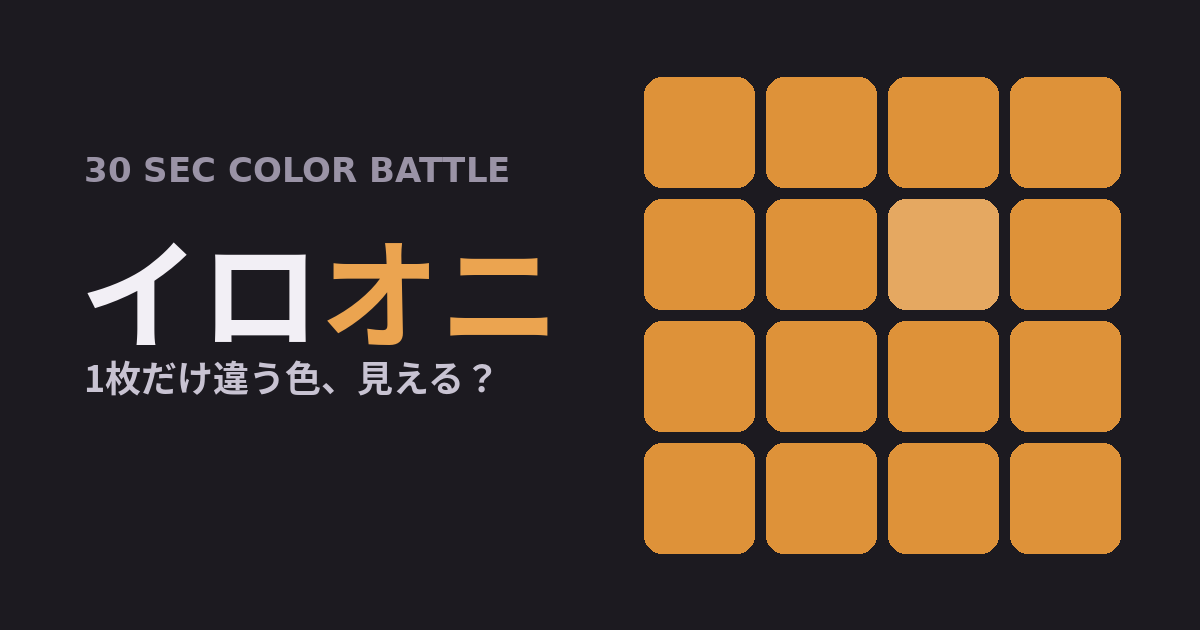
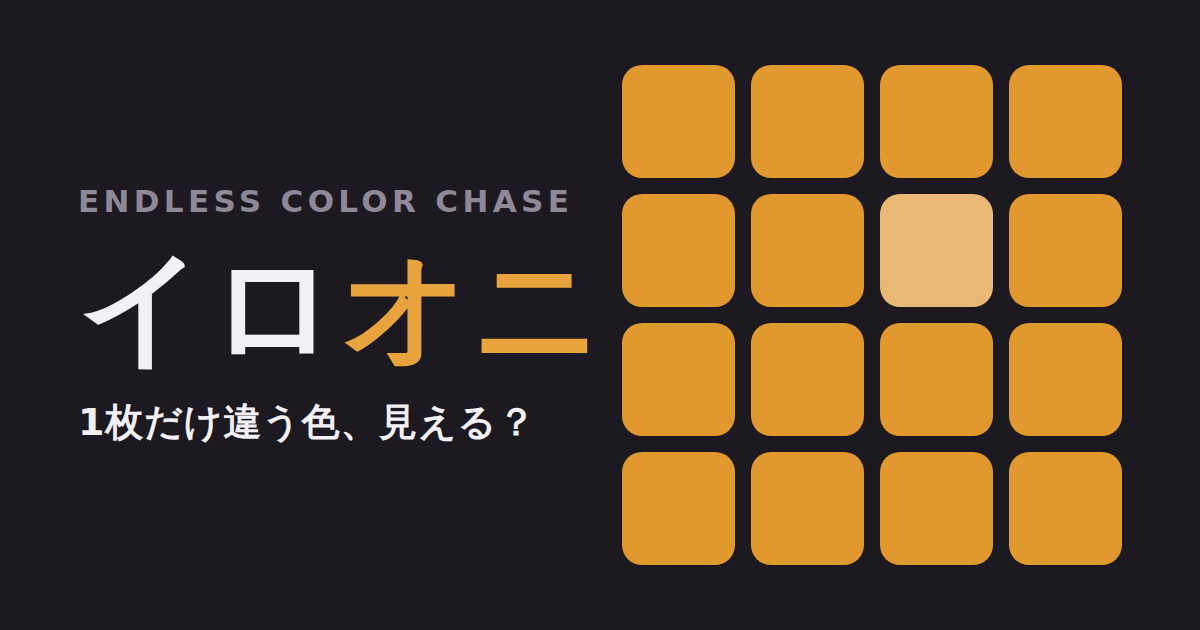
エンドレスモード化：迫る鬼と時間回復、世界ランキングの同名集約 (#7)
正解で時間が回復する無限モードに変更し、残り時間に応じて盤面の外側から
闇が迫る演出を追加。闇は盤面にかからないようJSで半径を実測して制御する。
偏差値を対数写像に変更し、生存時間の表示と文言・OGPの更新を含む。
世界ランキングは同名を最高スコアの1件に集約。

Changed region(s): [[0.0617, 0.0905, 0.9558, 0.9048], [0.0617, 0.2413, 0.4933, 0.3619], [0.925, 0.1206, 0.9558, 0.1508]]

diff --git a/index.html b/index.html
@@ -3,17 +3,17 @@
 <head>
 <meta charset="UTF-8">
 <meta name="viewport" content="width=device-width, initial-scale=1.0, maximum-scale=1.0, user-scalable=no">
-<title>イロオニ — 30秒色感バトル</title>
-<meta name="description" content="30秒で色感偏差値を測定。1枚だけ違う色をタップし続けろ。あなたの色感、何レベル？">
+<title>イロオニ — エンドレス色感バトル</title>
+<meta name="description" content="1枚だけ違う色をタップし続けろ。迫るオニに飲まれるまで終わらない、エンドレス色感バトル。">
 
 <!-- OGP -->
-<meta property="og:title" content="イロオニ — 30秒色感バトル">
-<meta property="og:description" content="1枚だけ違う色をタップし続けろ。30秒であなたの色感偏差値を測定。">
+<meta property="og:title" content="イロオニ — エンドレス色感バトル">
+<meta property="og:description" content="1枚だけ違う色をタップし続けろ。オニに飲まれるまで、どこまでも。">
 <meta property="og:type" content="website">
 <meta property="og:url" content="https://gongbenhuiyou027-png.github.io/Iro-oni/">
 <meta property="og:image" content="https://gongbenhuiyou027-png.github.io/Iro-oni/ogp.png">
 <meta name="twitter:card" content="summary_large_image">
-<meta name="twitter:title" content="イロオニ — 30秒色感バトル">
+<meta name="twitter:title" content="イロオニ — エンドレス色感バトル">
 <meta name="twitter:description" content="1枚だけ違う色をタップし続けろ。あなたの色感偏差値は？">
 <meta name="twitter:image" content="https://gongbenhuiyou027-png.github.io/Iro-oni/ogp.png">
 
@@ -45,7 +45,7 @@
     overflow:hidden;
     transition:background .6s ease;
   }
-  .app{width:min(92vw,440px);text-align:center;}
+  .app{width:min(92vw,440px);text-align:center;position:relative;z-index:1;}
 
   .brand{
     font-size:13px;letter-spacing:.5em;color:var(--sub);
@@ -106,6 +106,9 @@
     display:grid;gap:8px;
     aspect-ratio:1;
     touch-action:manipulation;
+    /* 盤面は不透明にして、鬼の闇がタイルの色に一切かからないようにする
+       （かかると同じ色でも位置で違って見えてしまい問題が成立しない） */
+    background:var(--bg);
   }
   #grid button{
     border:none;border-radius:14px;cursor:pointer;
@@ -141,7 +144,7 @@
     padding:8px 26px;color:var(--accent);transition:all .4s;
   }
   .stats{
-    display:flex;justify-content:center;gap:28px;
+    display:flex;justify-content:center;flex-wrap:wrap;gap:14px 20px;
     margin-bottom:30px;font-variant-numeric:tabular-nums;
   }
   .stats .label{font-size:10px;letter-spacing:.25em;color:var(--sub);}
@@ -322,6 +325,45 @@
     100%{opacity:0;transform:translate(-50%,-95%) scale(.95);}
   }
 
+  /* オニ：残り時間が減るほど、盤面の外側から闇が締め上げてくる。
+     盤面自体は不透明なので、色の比較には一切影響しない。 */
+  /* --oni は「透明でいられる半径」。盤面の四隅までの距離を下回らないようJSが計算するので、
+     闇が盤面にかかることはない（かかると同じ色が位置によって違って見えてしまう） */
+  #oni{
+    position:fixed;inset:0;z-index:0;pointer-events:none;opacity:0;
+    background:radial-gradient(circle at 50% 47%,
+      transparent var(--oni,3000px),
+      rgba(150,18,18,.42) calc(var(--oni,3000px) + 26px),
+      rgba(72,6,6,.82)   calc(var(--oni,3000px) + 95px),
+      rgba(0,0,0,.95)    calc(var(--oni,3000px) + 210px));
+    transition:opacity .5s;
+  }
+  body.playing #oni{opacity:1;}
+  body.hurry #oni{
+    background:radial-gradient(circle at 50% 47%,
+      transparent var(--oni,3000px),
+      rgba(226,32,32,.62) calc(var(--oni,3000px) + 18px),
+      rgba(96,6,6,.88)    calc(var(--oni,3000px) + 80px),
+      rgba(0,0,0,.97)     calc(var(--oni,3000px) + 190px));
+    animation:onibreath .85s ease-in-out infinite;
+  }
+  @keyframes onibreath{
+    0%,100%{opacity:1;}
+    50%{opacity:.82;}
+  }
+  #oni.push{animation:onipush .4s ease-out;}
+  @keyframes onipush{
+    0%{opacity:1;}
+    25%{opacity:.3;}
+    100%{opacity:1;}
+  }
+  /* 時間回復の手応え */
+  #h-time.gain{animation:timegain .45s ease-out;}
+  @keyframes timegain{
+    0%{color:var(--accent);transform:scale(1.22);}
+    100%{color:inherit;transform:scale(1);}
+  }
+
   /* 変則ラウンドの告知 */
   #roundtag{
     position:absolute;left:50%;top:50%;
@@ -371,6 +413,7 @@
 </style>
 </head>
 <body>
+<div id="oni" aria-hidden="true"></div>
 <button id="restart" onclick="startGame()" aria-label="最初からやり直す" title="やり直す（R）">
   <span class="ricon">↻</span><span class="rlabel">やり直す</span>
 </button>
@@ -379,12 +422,12 @@
 
   <!-- タイトル画面 -->
   <section class="screen active" id="scr-title">
-    <div class="brand">30 SEC COLOR BATTLE</div>
+    <div class="brand">ENDLESS COLOR CHASE</div>
     <h1>イロ<span class="oni">オニ</span></h1>
     <p class="lead">
       1枚だけ<b>色が違う</b>タイルをタップ。<br>
-      正解で加点、ミスで<b>時間ペナルティ</b>。<br>
-      30秒で色感偏差値を測定する。
+      正解すると<b>時間が回復</b>、ミスで−2秒。<br>
+      迫りくる<b>オニ</b>に飲まれるまで、どこまでも。
     </p>
     <div class="btncol" style="margin-top:4px">
       <button class="btn" onclick="startGame()">はじめる</button>
@@ -422,6 +465,7 @@
     <div><span class="title-name" id="title-name">見習い</span></div>
     <div class="stats">
       <div><div class="label">SCORE</div><div class="val" id="r-score">0</div></div>
+      <div><div class="label">SURVIVED</div><div class="val" id="r-time">0.0</div></div>
       <div><div class="label">LEVEL</div><div class="val" id="r-lv">1</div></div>
       <div><div class="label">MAX COMBO</div><div class="val" id="r-combo">0</div></div>
     </div>
@@ -470,7 +514,11 @@
 <script>
 (() => {
   const $ = id => document.getElementById(id);
-  const GAME_SEC = 30;
+  // エンドレス：正解で時間が回復し、鬼に飲まれるまで続く
+  const START_SEC = 15;    // 開始時の持ち時間
+  const TIME_CAP  = 20;    // 貯められる上限（無限に貯め込ませない）
+  const TIME_GAIN = 1.5;   // 正解1回の回復量
+  const MISS_SEC  = 2;     // ミスのペナルティ
   let best = Number(localStorage.getItem('irooni_best') || 0);
 
   /* ----- ランキング（ローカル保存・トップ10） ----- */
@@ -553,16 +601,30 @@
     else{ renderWorld(); }
   };
 
+  // 同名は最高スコアの1件だけ残す（スコア降順で最初に現れたものがその人のベスト）
+  const WORLD_FETCH = 500;
+  async function fetchWorldBest(){
+    const res = await sbFetch(
+      `scores?select=name,score,level,combo,dev,title&order=score.desc,created_at.asc&limit=${WORLD_FETCH}`);
+    if(!res.ok) throw new Error(res.status);
+    const rows = await res.json();
+    const seen = new Set(), best = [];
+    for(const r of rows){
+      const key = String(r.name).trim();
+      if(seen.has(key)) continue;
+      seen.add(key);
+      best.push(r);
+    }
+    return best;
+  }
+
   async function renderWorld(){
     const ol = $('rank-list'), empty = $('rank-empty');
     empty.hidden = true;
     ol.hidden = false;
     ol.innerHTML = '<p class="rank-loading">読み込み中…</p>';
     try{
-      const res = await sbFetch(
-        'scores?select=name,score,level,combo,dev,title&order=score.desc,created_at.asc&limit=10');
-      if(!res.ok) throw new Error(res.status);
-      const list = await res.json();
+      const list = (await fetchWorldBest()).slice(0, 10);
       if(!$('tab-world').classList.contains('on')) return; // 取得中にタブが切り替わった
       ol.innerHTML = '';
       if(list.length === 0){
@@ -611,16 +673,15 @@
       });
       if(!res.ok) throw new Error(res.status);
       state.submitted = true;
-      // 自分より上のスコア数から世界順位を出す
+      // 同名を1件に絞ったランキング上での自分の順位を出す
       let rankText = '登録しました！';
       try{
-        const cr = await sbFetch(`scores?select=id&score=gt.${entry.score}`, {
-          method:'HEAD',
-          headers:{'Prefer':'count=exact','Range':'0-0'},
-        });
-        const total = cr.headers.get('content-range');
-        if(total && total.includes('/')){
-          rankText = `世界${Number(total.split('/')[1]) + 1}位にランクイン！`;
+        const best = await fetchWorldBest();
+        const pos = best.findIndex(r => String(r.name).trim() === name);
+        if(pos >= 0){
+          rankText = Number(best[pos].score) === entry.score
+            ? `世界${pos+1}位にランクイン！`
+            : `登録しました（自己ベストで世界${pos+1}位）`;
         }
       }catch(e){}
       msg.textContent = rankText;
@@ -634,9 +695,10 @@
 
   const state = {
     running:false, score:0, combo:0, maxCombo:0, level:1,
-    timeLeft:GAME_SEC, answer:-1, lastTick:0, raf:0, shareText:'',
+    timeLeft:START_SEC, answer:-1, lastTick:0, raf:0, shareText:'', elapsed:0,
     feverUntil:0, lastTs:0, lastRank:-1, lastEntry:null, submitted:false,
-    lastSec:GAME_SEC, revealTimers:[], answers:[], variant:null,
+    lastSec:START_SEC, revealTimers:[], answers:[], variant:null,
+    oniRange:{minR:3000, maxR:3000},
   };
 
   function show(id){
@@ -893,13 +955,16 @@
       document.body.classList.toggle('zone', state.combo >= ZONE_COMBO);
       const isFeverStart = state.combo % FEVER_EVERY === 0;
       if(isFeverStart){ startFever(); sound.fever(); vibrate([0,30,40,30]); }
+      // 正解で時間が回復＝鬼を押し返す
+      state.timeLeft = Math.min(TIME_CAP, state.timeLeft + TIME_GAIN);
+      pushBackOni();
       state.level++;
       buildLevel();
     }else{
       state.combo = 0;
       stopFever();
       document.body.classList.remove('zone');
-      state.timeLeft = Math.max(0, state.timeLeft - 2);
+      state.timeLeft = Math.max(0, state.timeLeft - MISS_SEC);
       sound.miss();
       vibrate([0,60,50,60]);
       $('grid').classList.remove('shake');
@@ -918,13 +983,42 @@
     p.classList.add('show');
   }
 
+  // 正解時：鬼が一瞬たじろぎ、時間表示が光る
+  function pushBackOni(){
+    const o = $('oni'), t = $('h-time');
+    o.classList.remove('push'); void o.offsetWidth; o.classList.add('push');
+    t.classList.remove('gain'); void t.offsetWidth; t.classList.add('gain');
+    document.body.classList.remove('hurry');
+    state.lastSec = Math.ceil(state.timeLeft);
+  }
+
   /* ----- HUD ----- */
   function paintHud(){
     $('h-score').textContent = state.score.toLocaleString();
     $('h-combo').textContent = state.combo;
     $('h-time').textContent = state.timeLeft.toFixed(1);
-    $('tbar').style.transform = `scaleX(${state.timeLeft/GAME_SEC})`;
+    $('tbar').style.transform = `scaleX(${Math.min(1, state.timeLeft/TIME_CAP)})`;
+    // 鬼の闇が外側から迫る。半径は盤面の外周〜画面隅の間を補間する
+    const r = Math.max(0, Math.min(1, state.timeLeft/TIME_CAP));
+    const {minR, maxR} = state.oniRange;
+    document.documentElement.style.setProperty('--oni',
+      (minR + (maxR - minR) * r).toFixed(0) + 'px');
   }
+
+  // 盤面の四隅までの距離（＝闇が踏み込めない下限）と画面隅までの距離を測る
+  function measureOni(){
+    const gr = $('grid').getBoundingClientRect();
+    if(!gr.width) return;
+    const cx = innerWidth/2, cy = innerHeight*0.47;
+    const dist = (x,y) => Math.hypot(x-cx, y-cy);
+    const minR = Math.max(
+      dist(gr.left,gr.top), dist(gr.right,gr.top),
+      dist(gr.left,gr.bottom), dist(gr.right,gr.bottom)) + 10;
+    const maxR = Math.max(
+      dist(0,0), dist(innerWidth,0), dist(0,innerHeight), dist(innerWidth,innerHeight));
+    state.oniRange = {minR, maxR: Math.max(maxR, minR)};
+  }
+  addEventListener('resize', () => { measureOni(); if(state.running) paintHud(); });
 
   /* ----- ループ ----- */
   function tick(t){
@@ -932,6 +1026,7 @@
     const dt = (t - state.lastTick)/1000;
     state.lastTick = t;
     state.timeLeft = Math.max(0, state.timeLeft - dt);
+    state.elapsed += dt;
 
     // 残り5秒からの秒読み
     const sec = Math.ceil(state.timeLeft);
@@ -965,7 +1060,7 @@
 
     Object.assign(state,{
       running:true, score:0, combo:0, maxCombo:0, level:1,
-      timeLeft:GAME_SEC, lastSec:GAME_SEC,
+      timeLeft:START_SEC, lastSec:START_SEC, elapsed:0,
     });
     sound.unlock();
     stopFever();
@@ -975,6 +1070,7 @@
     if(typeof gtag === 'function') gtag('event', wasMidGame ? 'game_restart' : 'game_start');
     show('scr-game');
     buildLevel();
+    measureOni();      // 盤面が配置された後に計測する
     paintHud();
     state.lastTick = performance.now();
     state.raf = requestAnimationFrame(tick);
@@ -1007,8 +1103,9 @@
   function showResult(){
     state.revealTimers = [];
     document.body.classList.remove('playing');
-    // 偏差値：スコアをロジスティックに写像（10万点前後で65〜70、上はさらに遠い）
-    const dev = 30 + 55 / (1 + Math.exp(-(state.score - 70000)/32000));
+    // 偏差値：エンドレス化でスコアの幅が桁違いに広がったため対数で写像
+    // （1万点→33、10万点→53、100万点→79、400万点超で最上位帯）
+    const dev = 30 + 55 / (1 + Math.exp(-(Math.log10(state.score + 1) - 5.15)/0.42));
     const d = Math.floor(dev);
     const titles = [
       [83,'色の神'],[79,'人間卒業'],[75,'四色型色覚'],
@@ -1021,6 +1118,7 @@
     $('dev-num').textContent = d;
     $('title-name').textContent = title;
     $('r-score').textContent = state.score.toLocaleString();
+    $('r-time').textContent = state.elapsed.toFixed(1);
     $('r-lv').textContent = state.level;
     $('r-combo').textContent = state.maxCombo;
 
@@ -1072,7 +1170,7 @@
 
     state.shareText =
       `イロオニで色感偏差値${d}【${title}】だった！\n`+
-      `SCORE ${state.score.toLocaleString()} / LV${state.level} / 最大${state.maxCombo}コンボ\n`+
+      `SCORE ${state.score.toLocaleString()} / ${state.elapsed.toFixed(1)}秒生存 / LV${state.level}\n`+
       `https://gongbenhuiyou027-png.github.io/Iro-oni/\n#イロオニ`;
     show('scr-result');
   }
